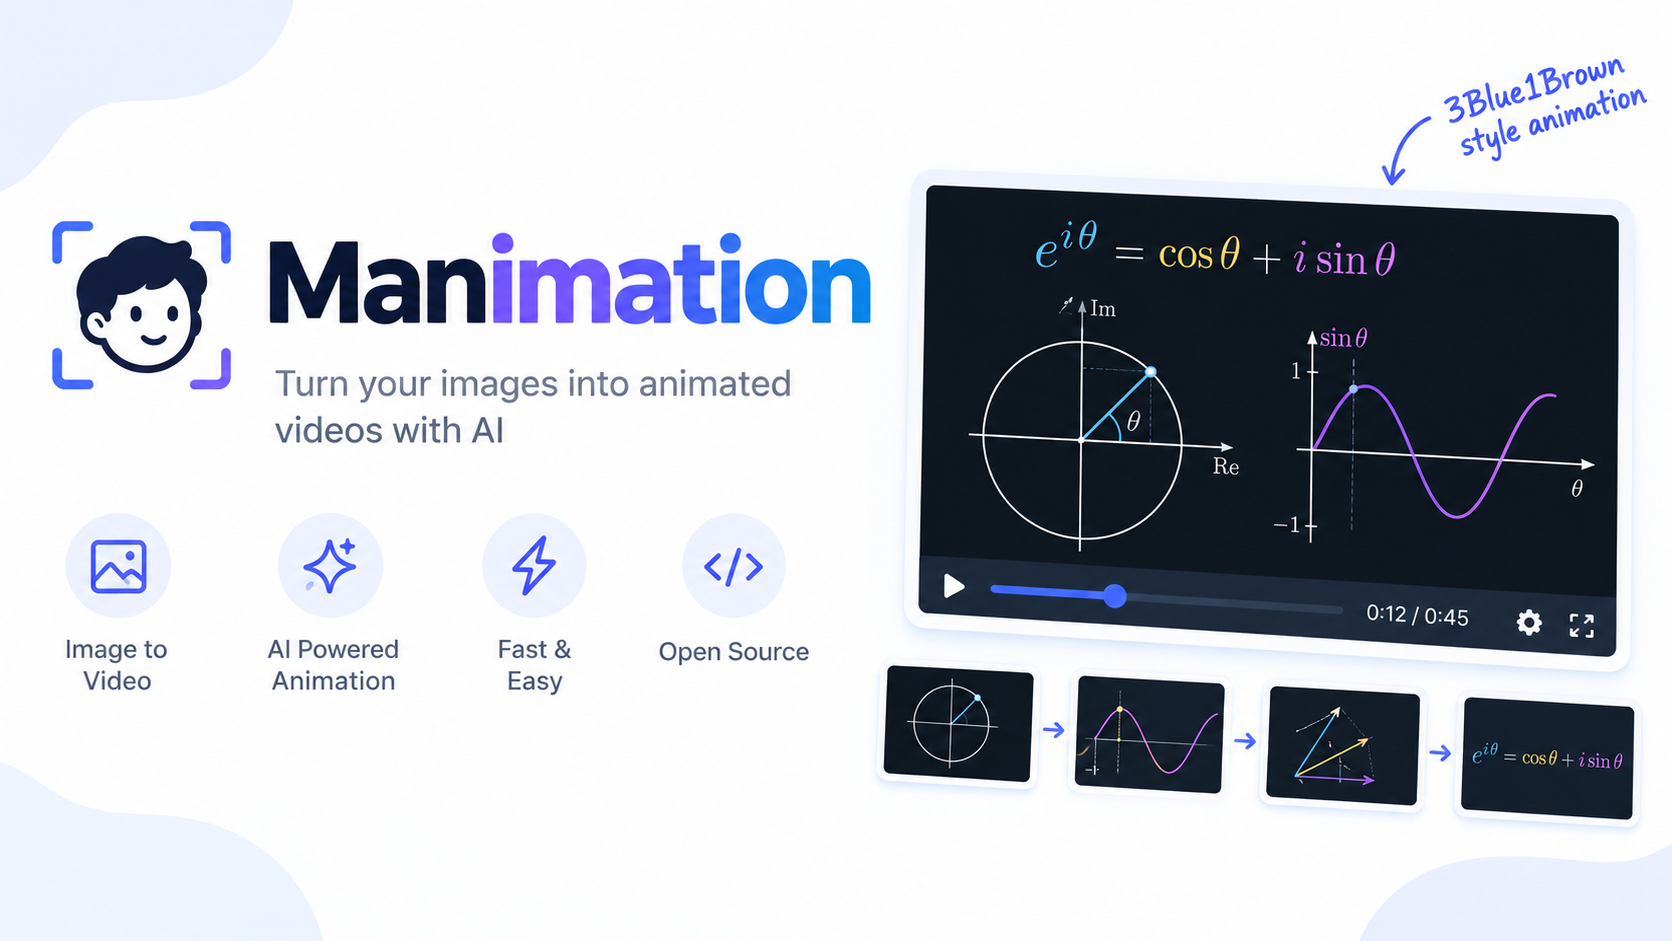
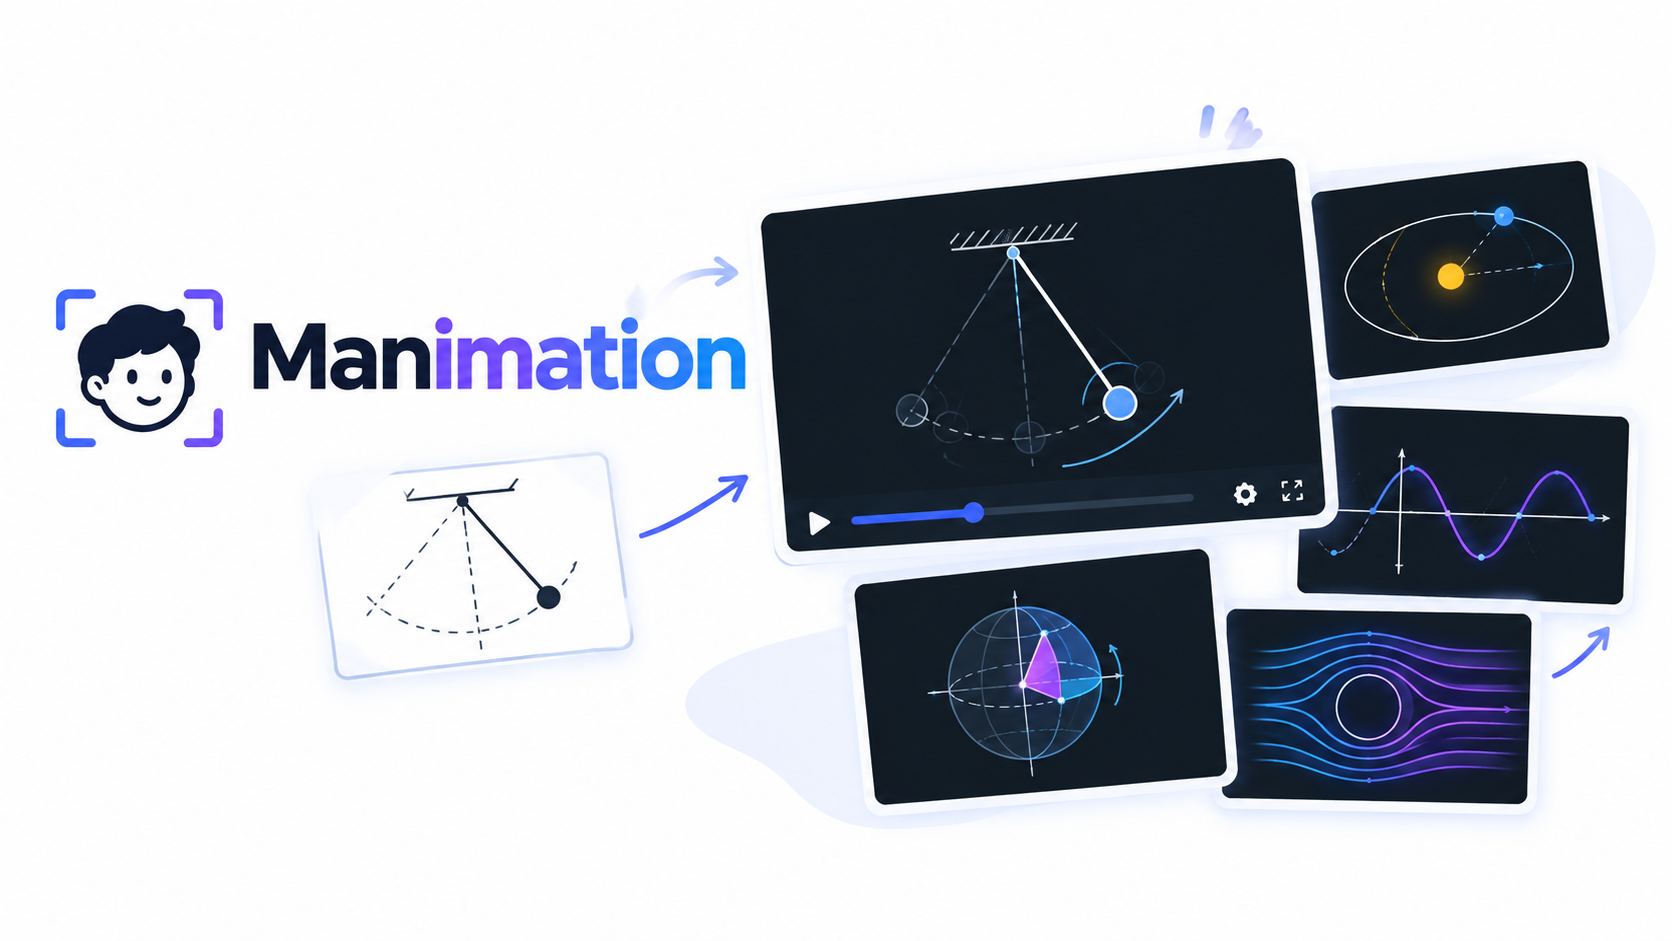
feat: update Manimation thumbnail and enlarge project thumbnails on desktop

diff --git a/src/app/projects/page.tsx b/src/app/projects/page.tsx
@@ -25,7 +25,7 @@ export default function ProjectsPage() {
                 <img
                   src={project.image}
                   alt={project.title}
-                  className="aspect-video w-full rounded-lg border border-border object-cover sm:w-52"
+                  className="aspect-video w-full rounded-lg border border-border object-cover sm:w-52 lg:w-64"
                 />
               </Link>
             )}
